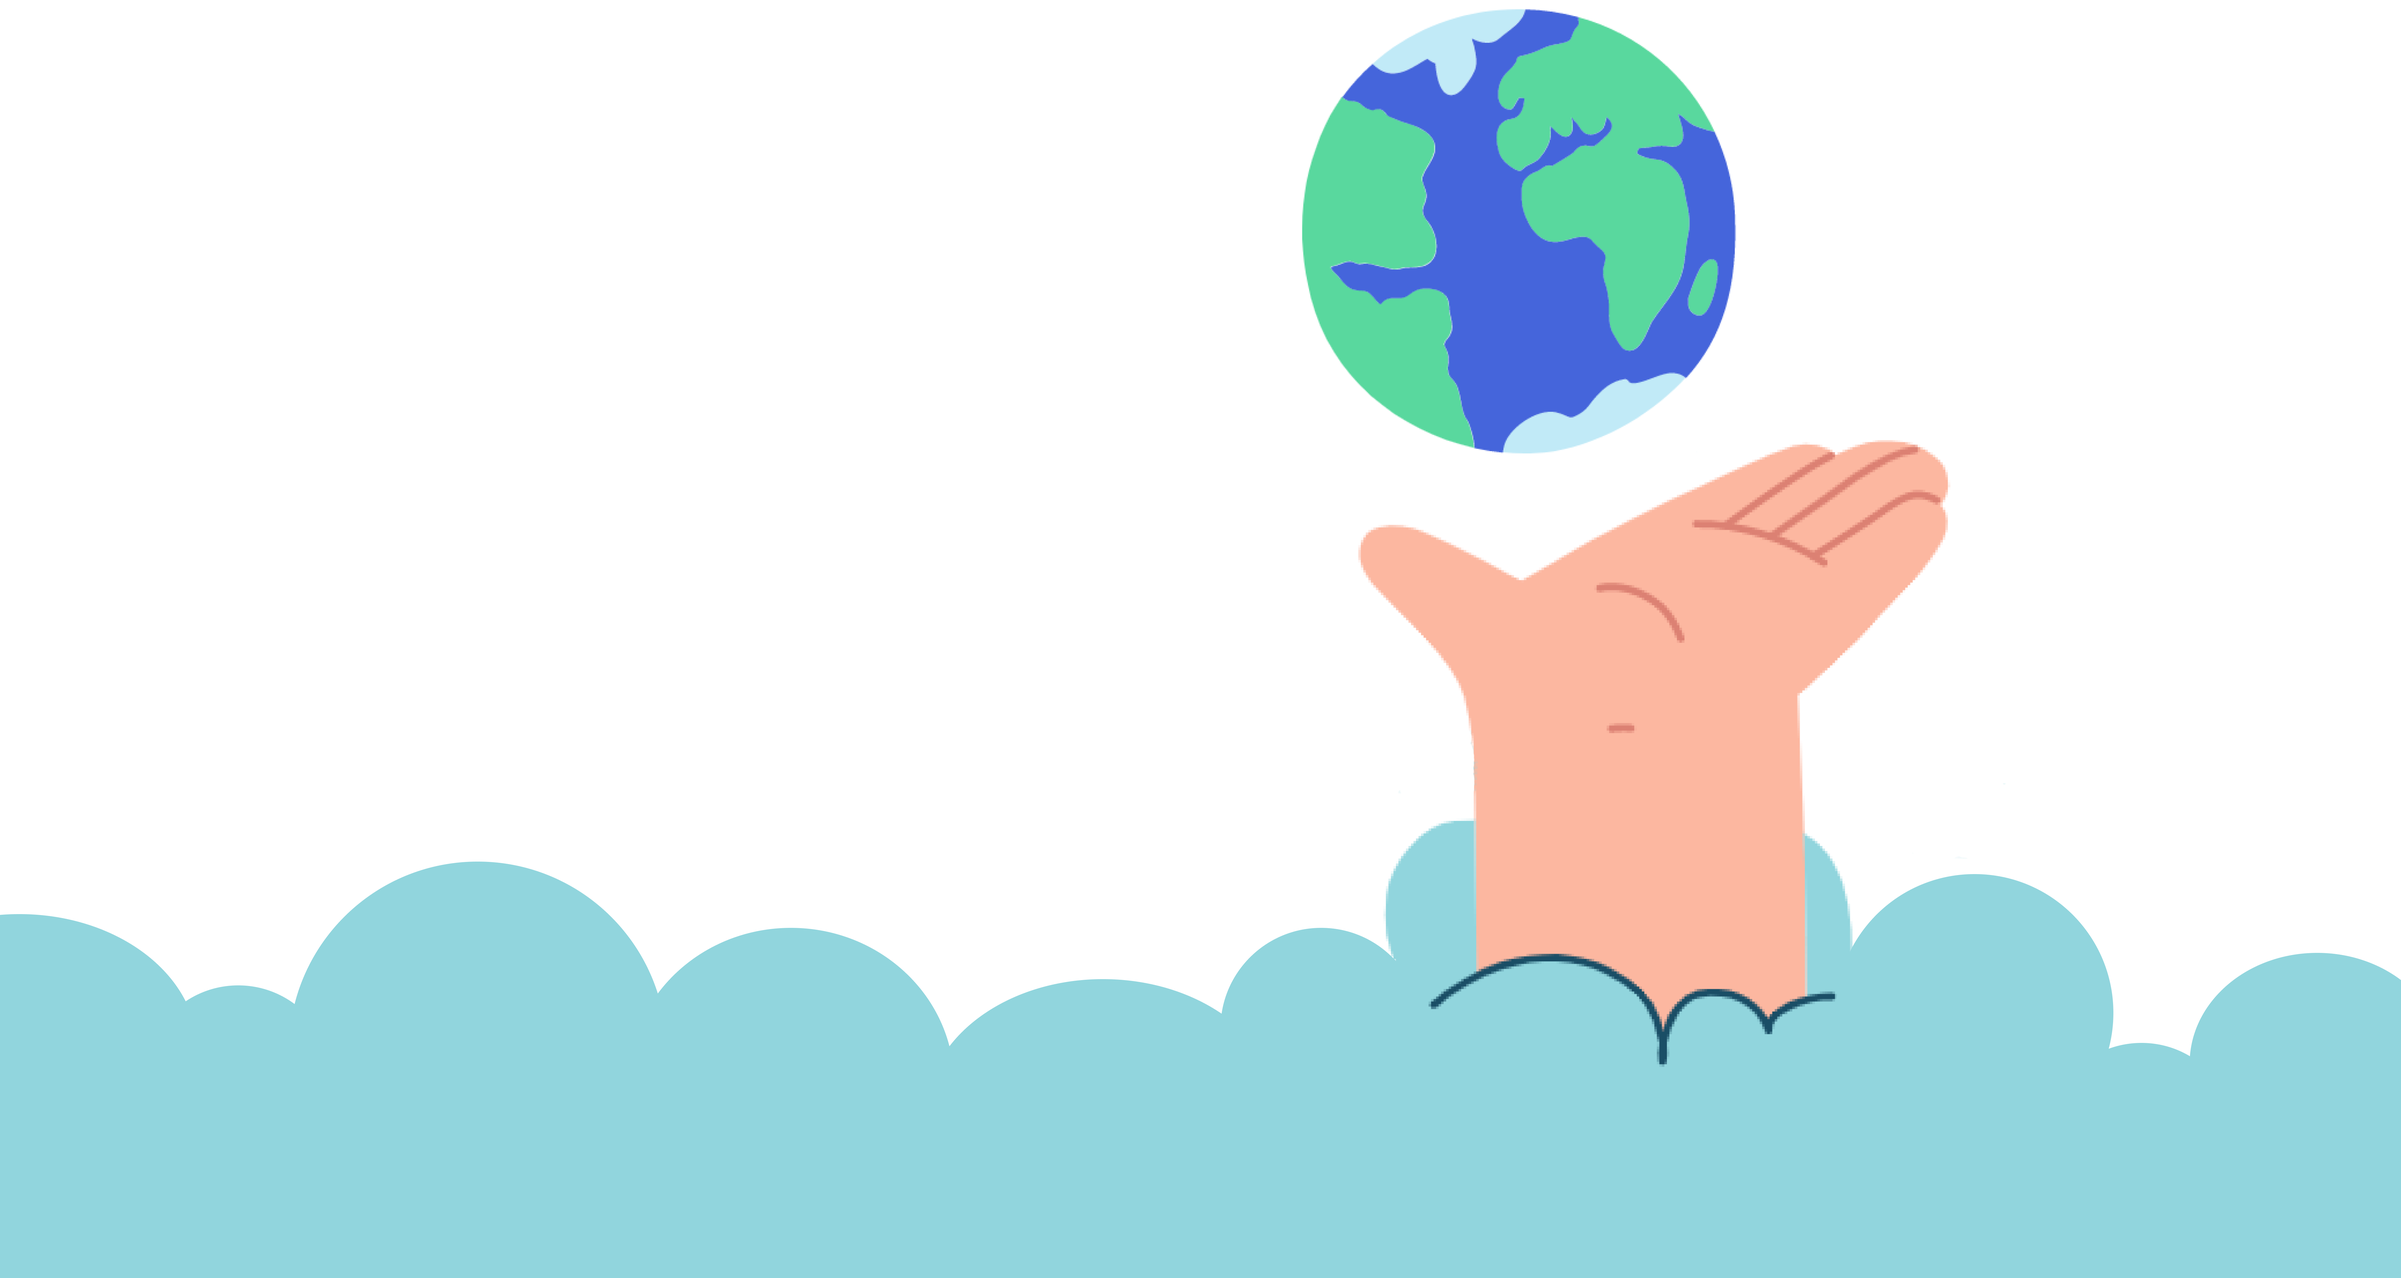
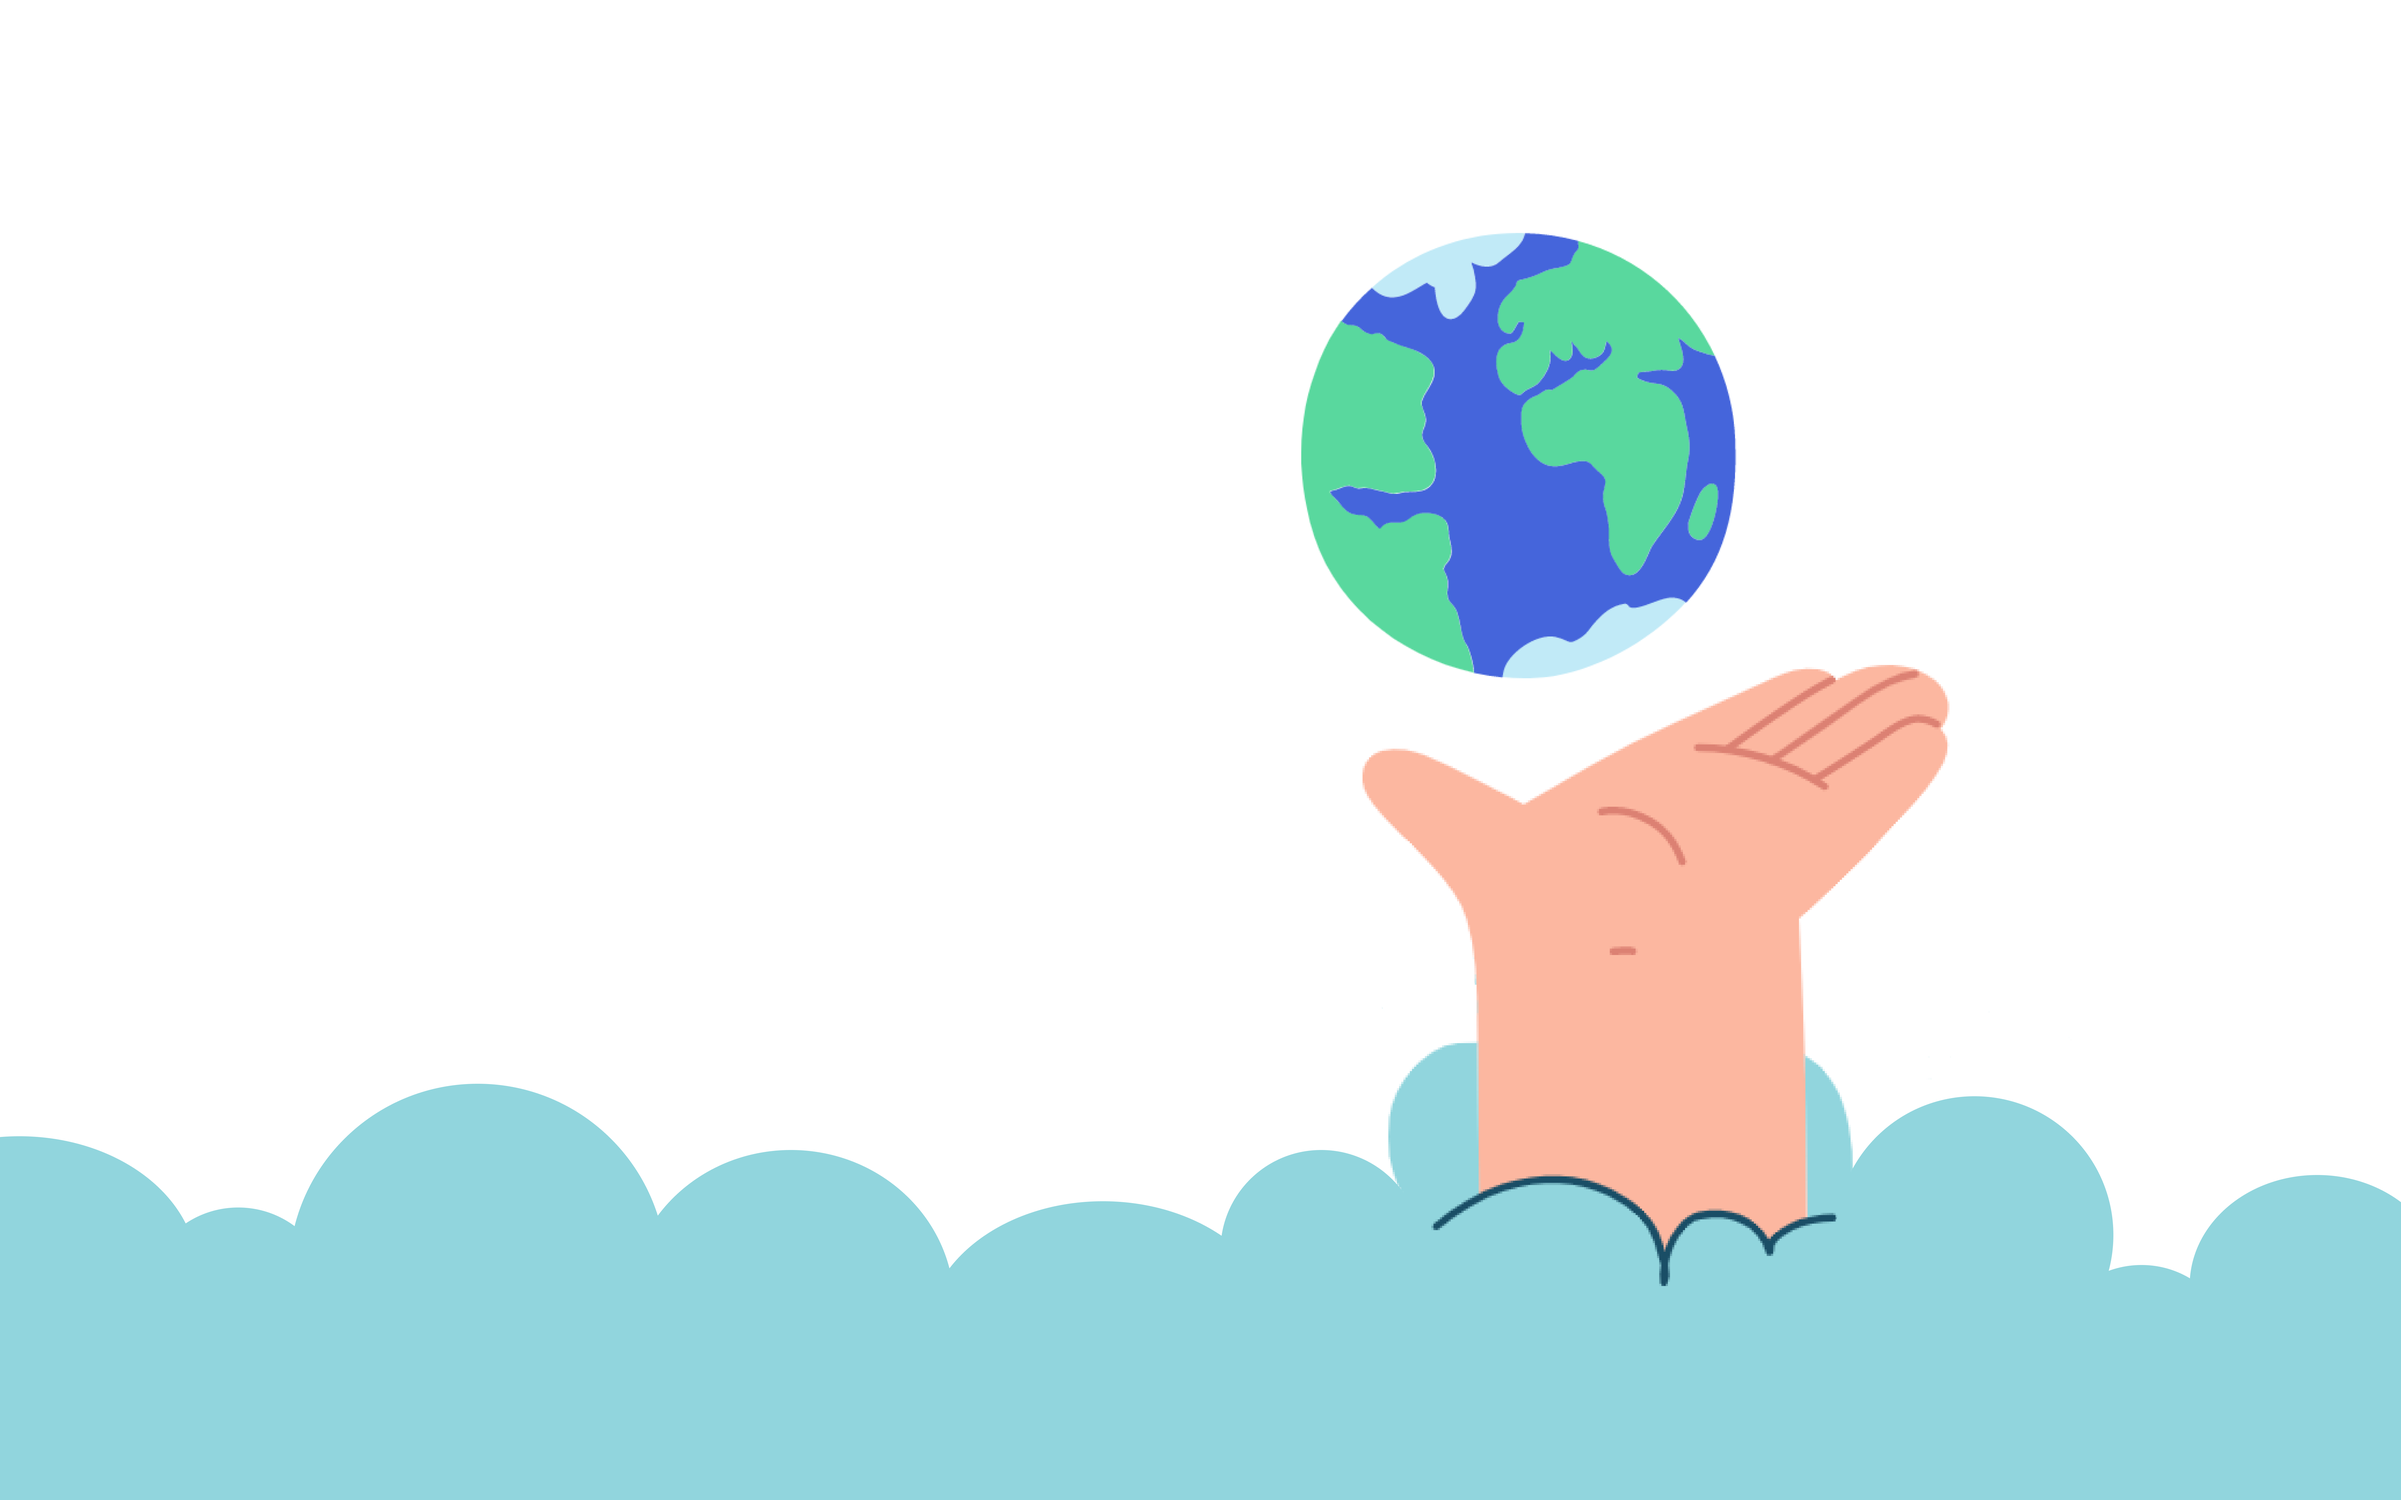
feat: adapt responsive layout on home header

Changed region(s): [[0.0, 0.0, 0.875, 0.8388], [0.875, 0.7456, 1.0, 0.8699]]

diff --git a/components/organisms/homes/HomeHeader/HomeHeader.tsx b/components/organisms/homes/HomeHeader/HomeHeader.tsx
@@ -6,48 +6,57 @@ import HomeContentCatchPhrase from 'components/molecules/homes/HomeContentCatchP
 import HomeContentTitle from 'components/molecules/homes/HomeContentTitle/HomeContentTitle'
 import styles from 'styles/Home.module.scss'
 
-const HomeHeader: FC = () => {
+type Props = {
+  sp: boolean;
+}
+
+const HomeHeader: FC<Props> = (props) => {
   return (
-    <Box>
-      <Box height="3vh" py={10}>
-        <Box mb={10} className={styles['home__header__item-container']}>
-          <HomeContentCatchPhrase
-            className={styles['home__header__catch-phrase']}
-          >
+    <Box height="113vh" style={ { position: 'relative'} }>
+      <Box
+        maxWidth={ '660px' }
+        className={ styles['home__header__item-container'] }
+      >
+        <Box mb={ {base: 10, md: 20} }>
+          <HomeContentCatchPhrase>
             じぶんごとプラネット
           </HomeContentCatchPhrase>
         </Box>
-      </Box>
-      <Box height="97vh" pt={10} style={{ position: 'relative' }}>
-        <Box
-          maxWidth={'660px'}
-          className={styles['home__header__item-container']}
-        >
-          <Box pt={15}>
-            <HomeContentTitle
-              className={styles['home__header__title-container']}
-            >
+        <Box pt={ 15 }>
+          <HomeContentTitle
+            className={ styles['home__header__title-container'] }
+          >
               <span>
                 気候変動を
-                <br />
-                <span className={styles['home__header__title']}>
+                <br/>
+                <span className={ styles['home__header__title'] }>
                   じぶんごと
                 </span>
                 にする
               </span>
-            </HomeContentTitle>
-            <HomeContentBody>
-              脱炭素で持続可能な未来のために、ひとりひとりが今の生活スタイルの気候変動への影響を知り、小さなことから一つずつアクションを起こす。こうして「じぶんごと」の輪が広がっていきます。
-            </HomeContentBody>
-          </Box>
+          </HomeContentTitle>
+          <HomeContentBody>
+            脱炭素で持続可能な未来のために、ひとりひとりが今の生活スタイルの気候変動への影響を知り、小さなことから一つずつアクションを起こす。こうして「じぶんごと」の輪が広がっていきます。
+          </HomeContentBody>
         </Box>
-        <Image
-          src={'/home/home-header.png'}
-          layout="fill"
-          objectFit={'contain'}
-          alt="home-header"
-        />
       </Box>
+      {
+        props.sp ?
+          <Box height='470px' style={ { position: 'relative'} }>
+            <Image
+              src={ '/home/home-header--sp.png' }
+              layout="fill"
+              objectFit='contain'
+              alt="home-header"
+            />
+          </Box>
+          :
+          <Image
+            src={ '/home/home-header.png' }
+            layout="fill"
+            alt="home-header"
+          />
+      }
     </Box>
   )
 }

diff --git a/components/molecules/homes/HomeContentTitle/HomeContentTitle.tsx b/components/molecules/homes/HomeContentTitle/HomeContentTitle.tsx
@@ -8,14 +8,13 @@ type Props = {
 
 const HomeContentTitle: FC<Props> = (props) => {
   const baseStyle = {
-    fontSize: '50px',
     lineHeight: '140%',
     letterSpacing: '0.1em',
     fontWeight: 700
   }
 
   return (
-    <Heading className={props.className} style={baseStyle} as="h3">
+    <Heading className={props.className} style={baseStyle} fontSize={{base: "36px", md: "50px"}} as="h3">
       {props.children}
     </Heading>
   )

diff --git a/styles/Home.module.scss b/styles/Home.module.scss
@@ -1,7 +1,13 @@
+@import "styles/vars";
+
 .home {
   &__header {
     &__item-container {
-      padding-left: 15%;
+      padding: 2rem 0 0 15%;
+
+      @include sp {
+        padding: 2rem 1rem 0 1rem;
+      }
     }
 
     &__title-container {
